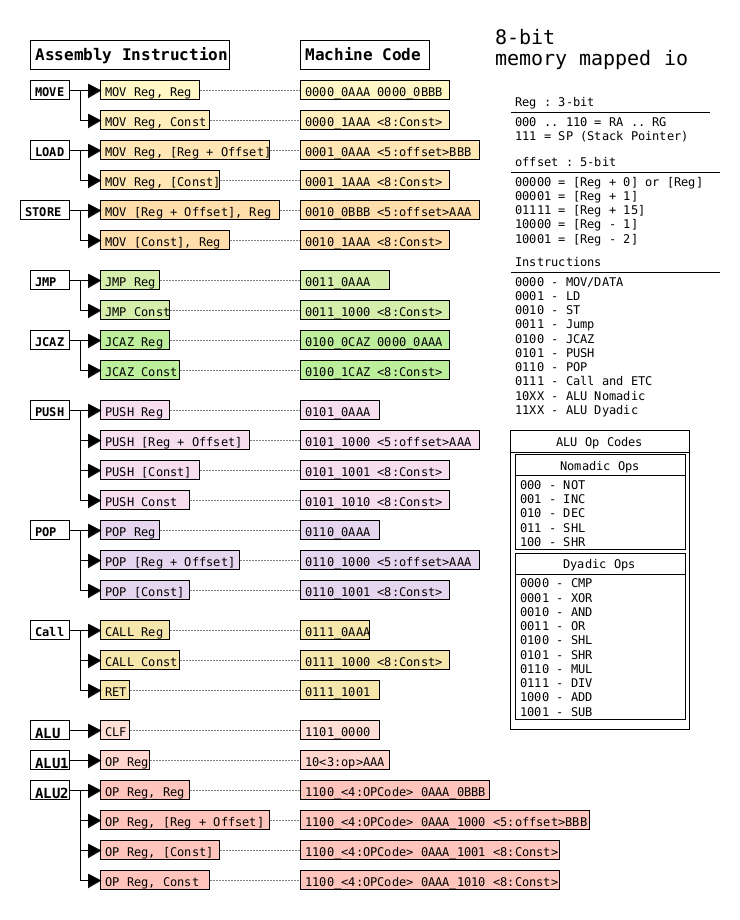
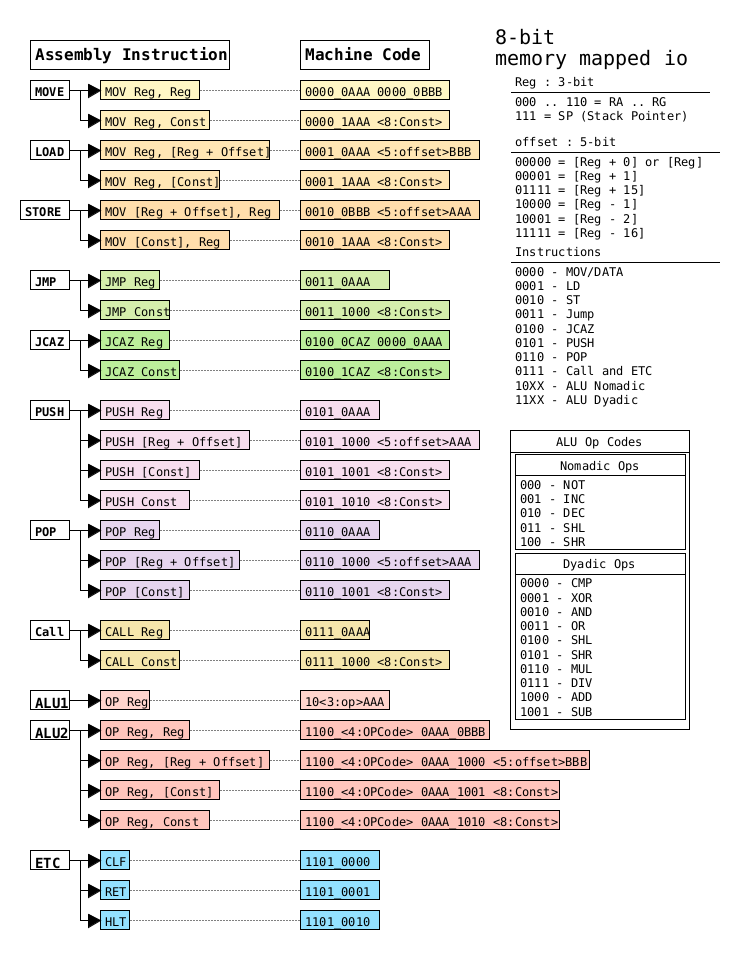
added ETC instructions

diff --git a/Assembler/Assembler/Translator.cs b/Assembler/Assembler/Translator.cs
@@ -255,17 +255,29 @@ public static class Translator
         return new byte[0]{};
     }
 
+    private static byte[] translateETC(string line){
+        byte[] r = new byte[1];
+        switch(line){
+            case "clf": r[0] = 0b1101_0000; break;
+            case "ret": r[0] = 0b1101_0001; break;
+            case "hlt": r[0] = 0b1101_0010; break;
+        }
+        return r;
+    }
+
     private static string[] LineStarters = {
         "mov", "jmp", LEXICON.SYNTAX.JCAZ, "push", "pop", "call", 
-        "(cmp|xor|and|or|shl|shr|mul|div|add|sub|inc|dec|not)"
+        "(cmp|xor|and|or|shl|shr|mul|div|add|sub|inc|dec|not)",
+        "(ret|hlt|clf)"
     };
     private static Func<string,byte[]>[] translateFuncs = {
-        translateMOV, translateJMP, translateJCAZ, translatePUSH, translatePOP, translateCALL, translateALU
+        translateMOV, translateJMP, translateJCAZ, translatePUSH,
+        translatePOP, translateCALL, translateALU, translateETC
     };
     /// <sumary>translated the line into its corresponding byte[] that represents machine code. returns an empty array if it is grammatically incorrect</summary> 
     public static byte[] translateLine(string line)
     {
-        for(int i = 0; i < 7; i++)
+        for(int i = 0; i < 8; i++)
             if (Common.match(line, LineStarters[i])) return translateFuncs[i](line);
         
         return new byte[0];

diff --git a/Assembler/AssemblerTest/TranlatorTest.cs b/Assembler/AssemblerTest/TranlatorTest.cs
@@ -97,6 +97,10 @@ public class TranslationCheck
     [InlineData("mul c,[12]", new byte[3]{ 0b1100_0110, 0b0010_1001, 12 })]
     [InlineData("div d,123", new byte[3]{ 0b1100_0111, 0b0011_1010, 123 })]
     [InlineData("add e,0", new byte[3]{ 0b1100_1000, 0b0100_1010, 0 })]
+    //etc
+    [InlineData("clf", new byte[1]{0b1101_0000} )]
+    [InlineData("ret", new byte[1]{0b1101_0001} )]
+    [InlineData("hlt", new byte[1]{0b1101_0010} )]
     public void translatesAssemblyInstructionsToMachineCodeCorrectly(string line,byte[] expected_res)
     {
         byte[] actual_res = Assembler.Translator.translateLine(line);
